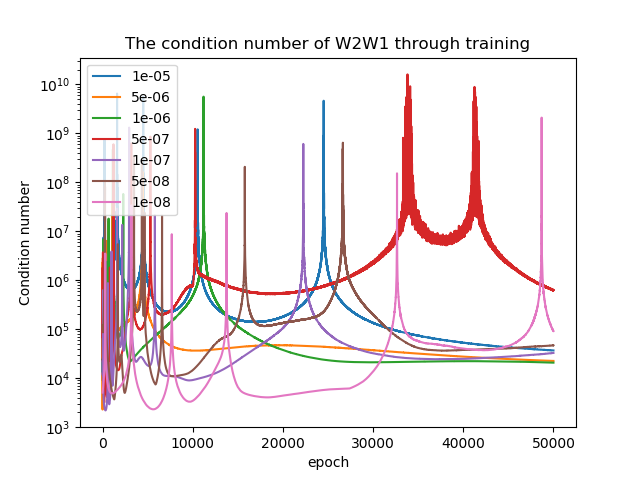
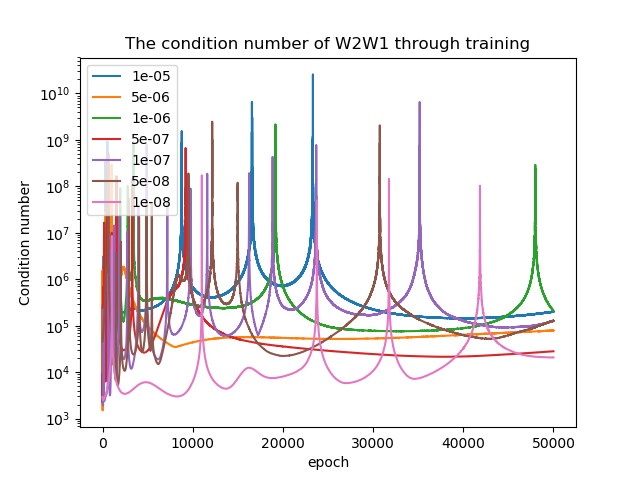
New auto

diff --git a/dynamics/autograd.py b/dynamics/autograd.py
@@ -15,7 +15,7 @@ y_size, x_size, mid_dim = 100, 100, 100
 
 learning_rate_list = [1e-5, 5e-6, 1e-6, 5e-7, 1e-7, 5e-8, 1e-8]
 
-epoch = int(5E5)
+epoch = int(5E4)
 x_axis = list(range(epoch))
 
 loss_dict, condition_number_dict, max_allowed_learning_rate_dict, equivalent_weight_dict = {}, {}, {}, {}
